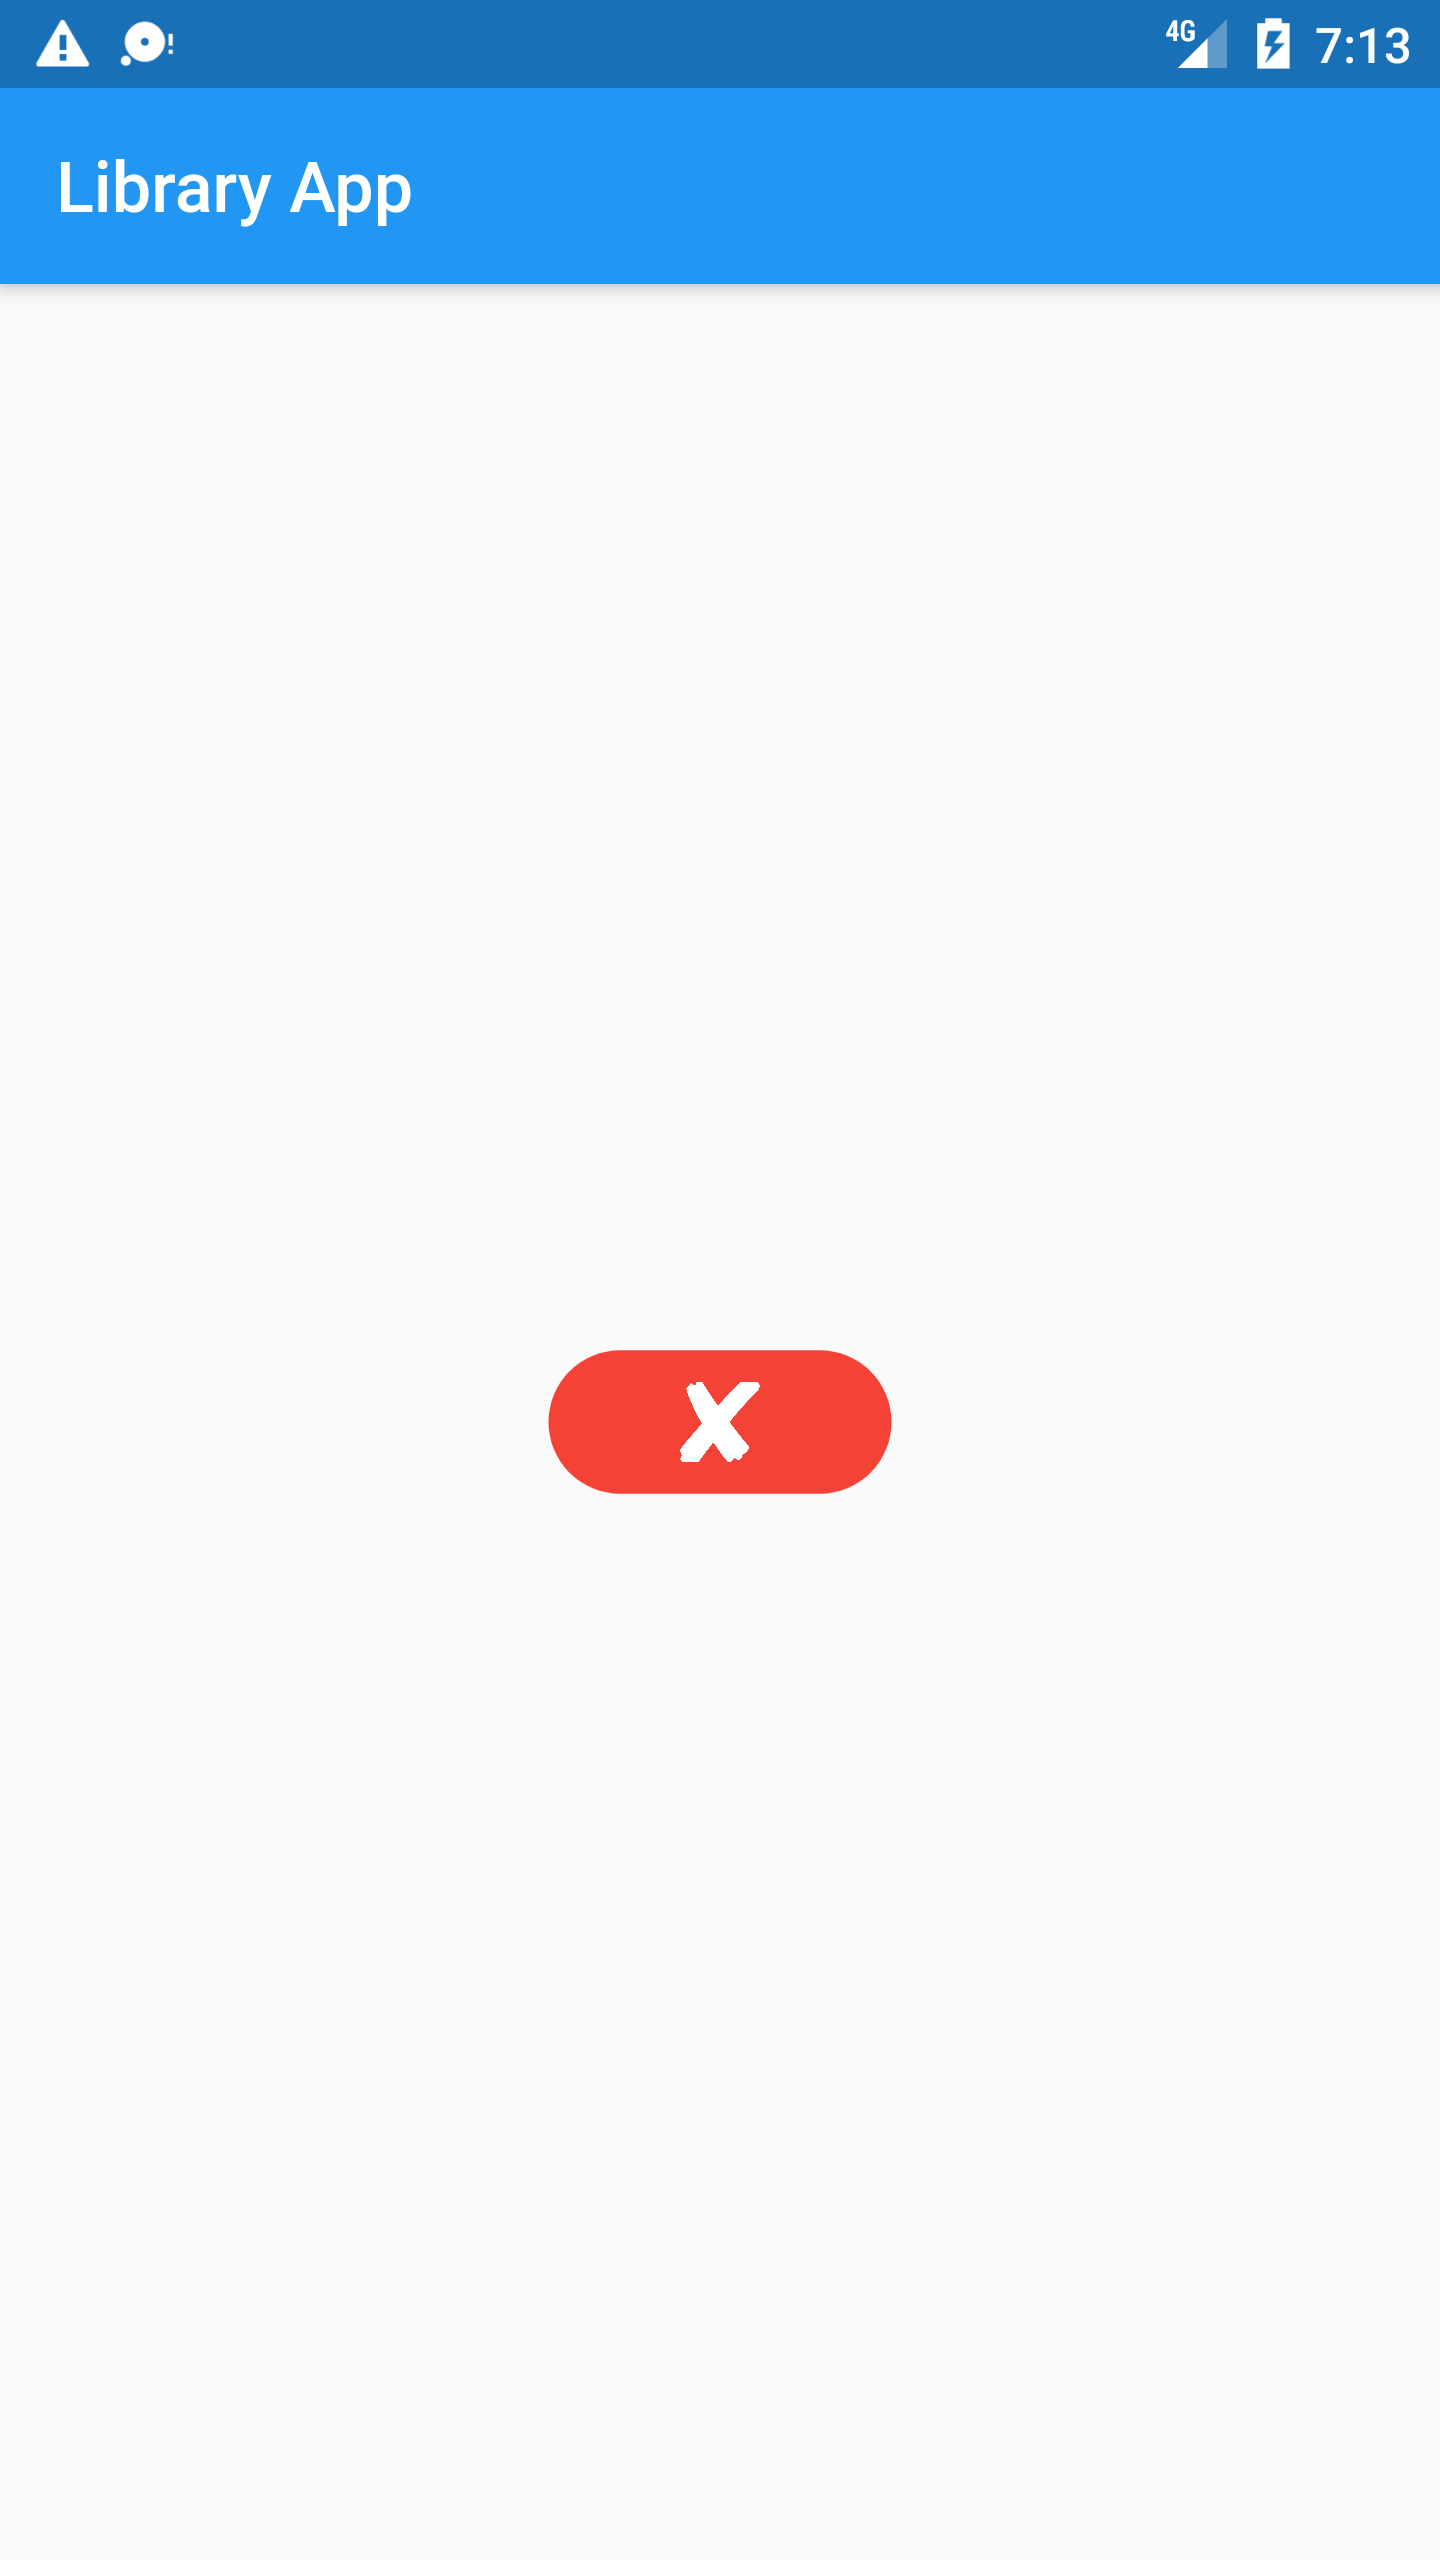
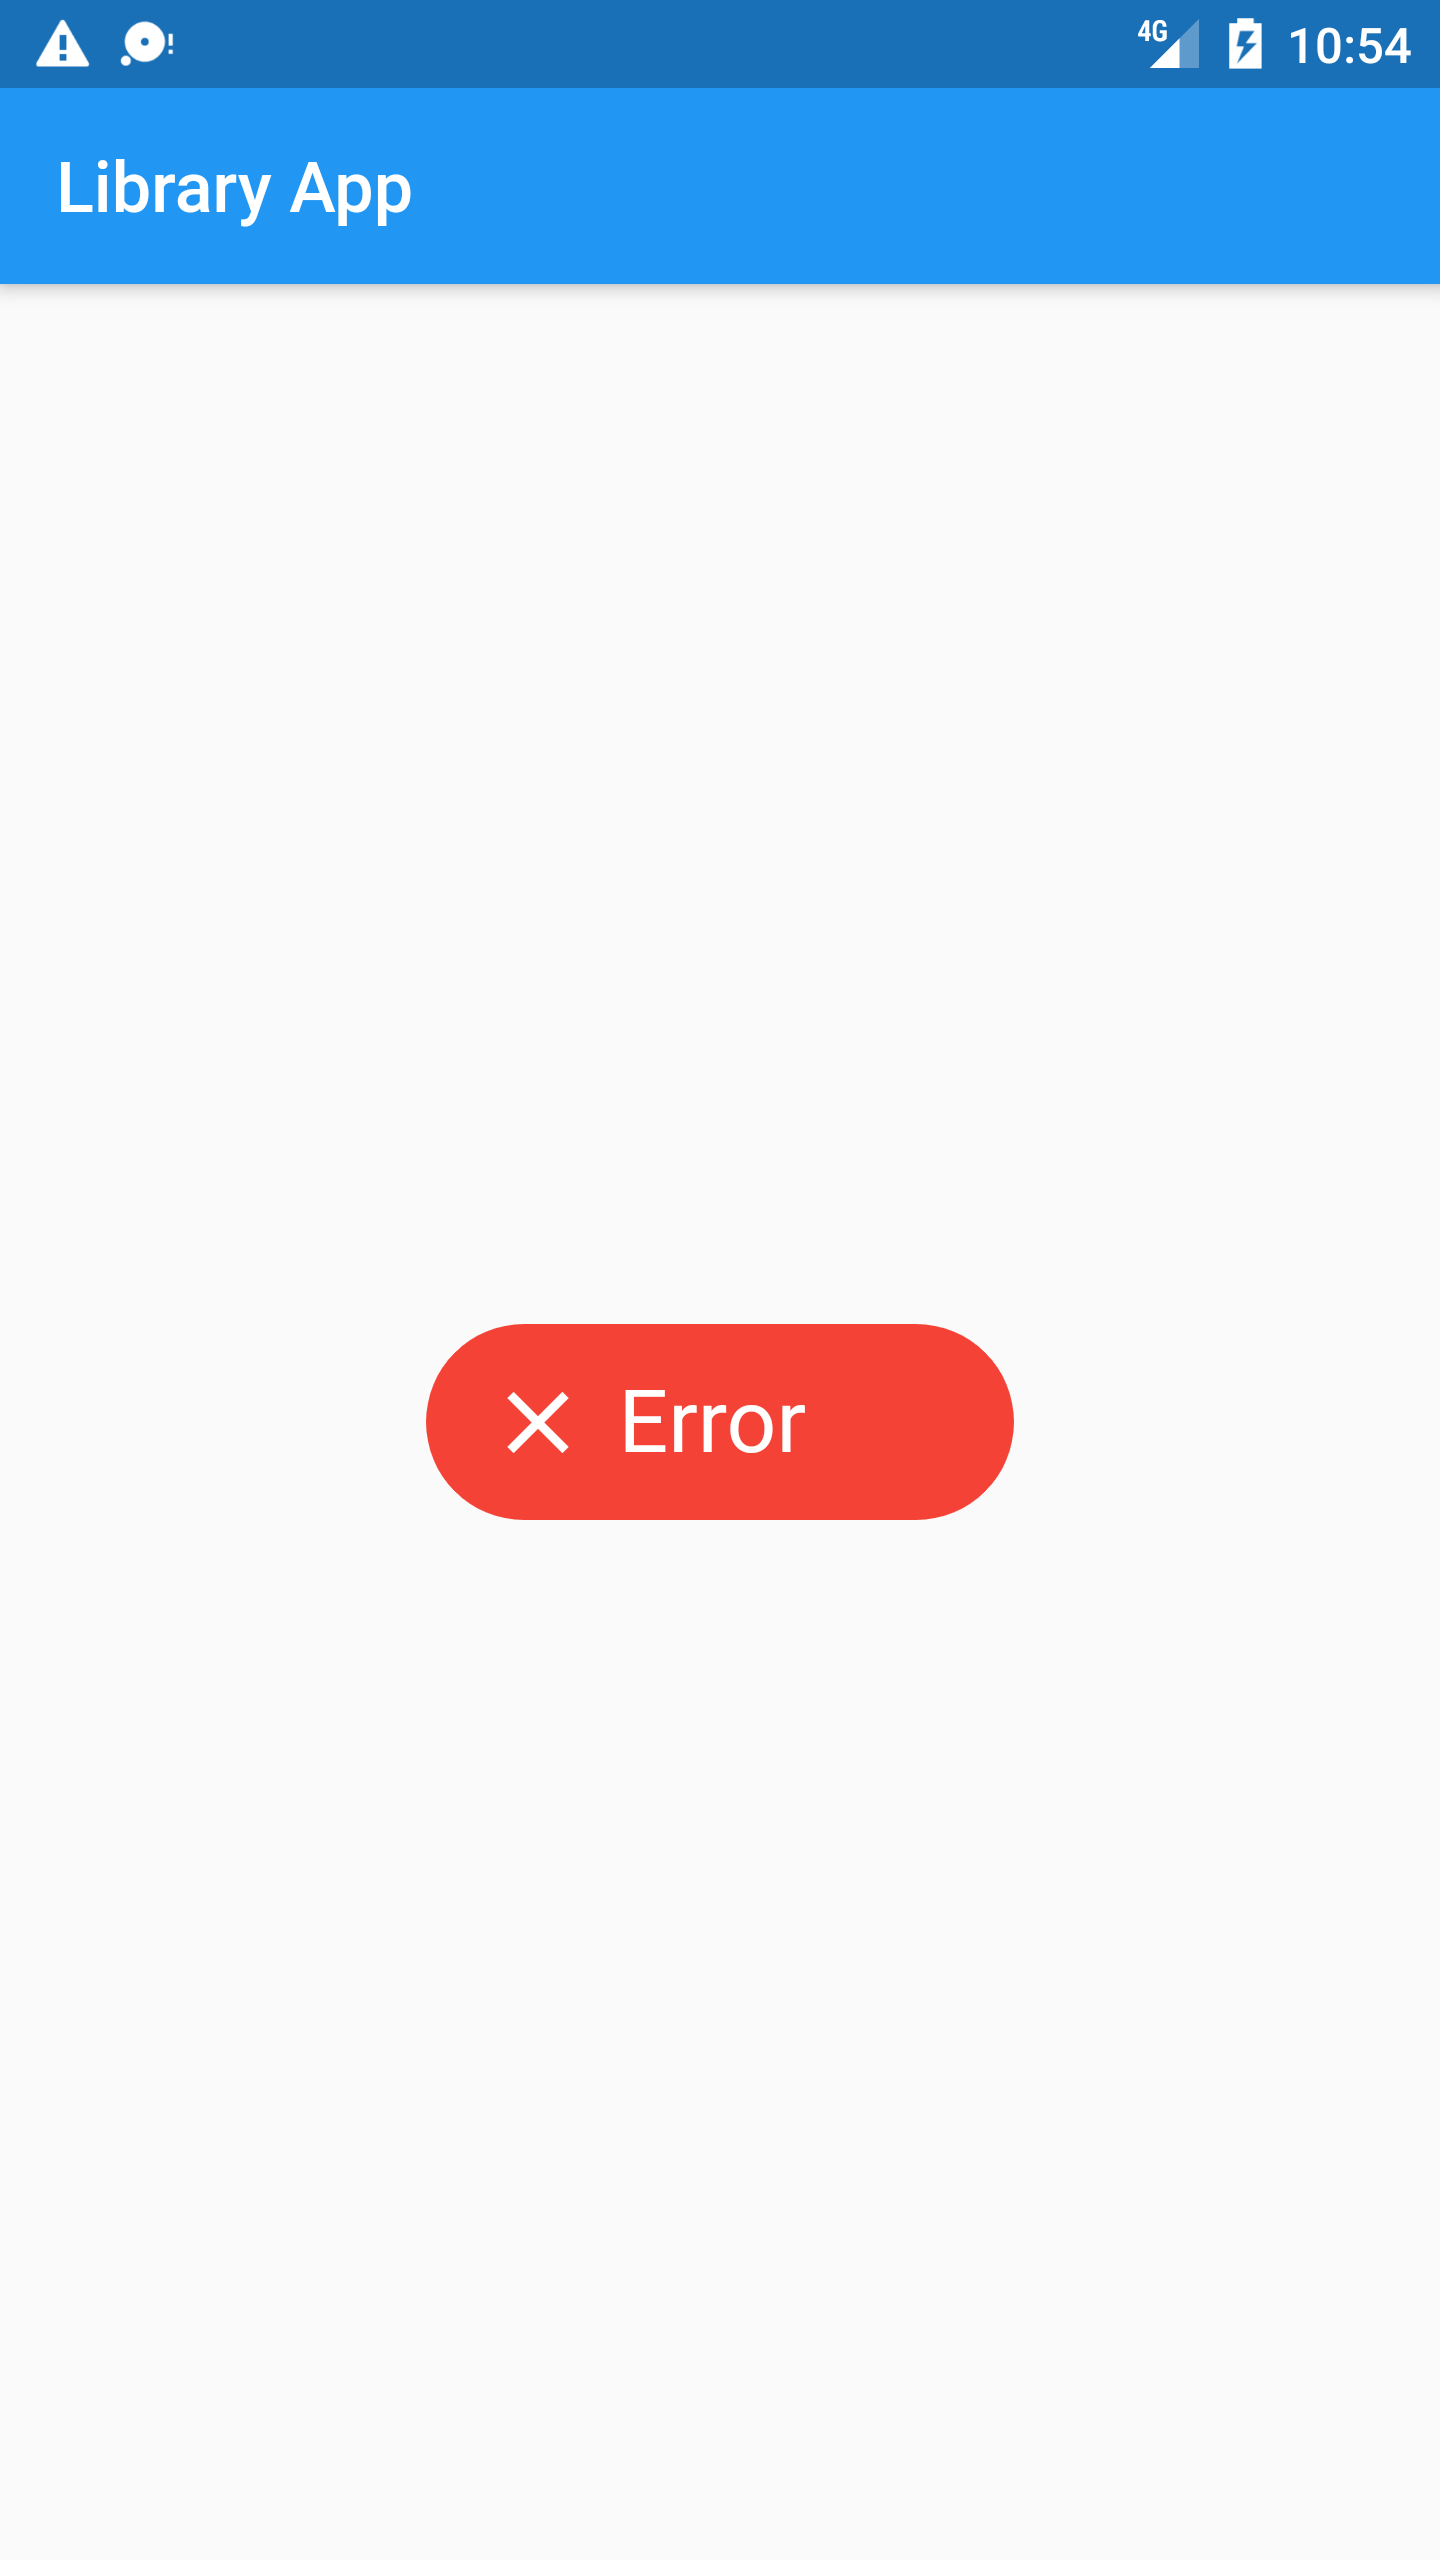
Add files via upload

Changed region(s): [[0.2812, 0.5, 0.7188, 0.5938], [0.7812, 0.0, 0.9688, 0.0312]]

diff --git a/lib/progress_button/progress_button.dart b/lib/progress_button/progress_button.dart
@@ -19,6 +19,8 @@ class ProgressButton extends StatefulWidget {
   final double height;
   final double width;
   final Widget child;
+  final Widget successWidget;
+  final Widget errorWidget;
   final onButtonPressed<Future<ButtonState>> onPressed;
   final Function onSuccessFinished;
 
@@ -32,6 +34,8 @@ class ProgressButton extends StatefulWidget {
     this.height,
     this.width,
     @required this.child,
+    this.successWidget,
+    this.errorWidget,
     @required this.onPressed,
     this.onSuccessFinished,
 
@@ -72,7 +76,6 @@ class _ProgressButtonState extends State<ProgressButton> with SingleTickerProvid
         setState((){});
       }
       else if(status == AnimationStatus.dismissed){
-        //settare le variabii per gli onpressed dei due casi
         if(_state == ButtonState.success) {
           _animateSwitch = false;
           _onPressed = () {
@@ -116,47 +119,32 @@ class _ProgressButtonState extends State<ProgressButton> with SingleTickerProvid
     super.initState();
   }
 
+  Widget _defaultResultWidget(IconData _iconData){
+    return Padding(
+      padding: EdgeInsets.symmetric(vertical: 8.0),
+      child: Center(
+        child: FittedBox(
+          fit: BoxFit.cover,
+          child: Icon(
+            _iconData,
+            color: Colors.white,
+            size: math.min(_buttonSize.width, _buttonSize.height),
+          ),
+        ),
+      ),
+    );
+  }
+
   @override
   Widget build(BuildContext context) {
 
     _width = _buttonSize == null ? null : _buttonSize.width;
     _height = _buttonSize == null ? null : _buttonSize.height;
     _child = _animateSwitch ? Container()
-        : _state == ButtonState.idle ? Row(
-      mainAxisAlignment: MainAxisAlignment.center,
-      mainAxisSize: MainAxisSize.min,
-      crossAxisAlignment: CrossAxisAlignment.center,
-      children: <Widget>[
-        widget.child,
-      ],
-    )
+        : _state == ButtonState.idle ? widget.child
           : _state == ButtonState.success
-            ?  Padding(
-      padding: const EdgeInsets.symmetric(
-          vertical: 8.0, horizontal: 0.0),
-      child: Center(
-        child: AspectRatio(
-          aspectRatio: 1,
-          child: Image.asset(
-            'assets/white_check.png',
-            fit: BoxFit.cover,
-          ),
-        ),
-      ),
-    )
-            : Padding(
-      padding: const EdgeInsets.symmetric(
-          vertical: 8.0, horizontal: 0.0),
-      child: Center(
-        child: AspectRatio(
-          aspectRatio: 1,
-          child: Image.asset(
-            'assets/white_x.png',
-            fit: BoxFit.cover,
-          ),
-        ),
-      ),
-    );
+            ?  widget.successWidget ?? _defaultResultWidget(Icons.check)
+            : widget.errorWidget ??  _defaultResultWidget(Icons.close);
 
     _color = _state == ButtonState.idle
         ? widget.idleColor
@@ -191,6 +179,7 @@ class _ProgressButtonState extends State<ProgressButton> with SingleTickerProvid
       return _ProgressButton(
         width: widget.width ?? _width,
         height: widget.height ?? _height,
+        color: _color,
         child: _child,
         onPressed: (){
           if(_firstTap){
@@ -200,9 +189,7 @@ class _ProgressButtonState extends State<ProgressButton> with SingleTickerProvid
           }
           _onPressed();
         },
-        color: _color,
       );
-
     }
 
   }

diff --git a/lib/main.dart b/lib/main.dart
@@ -37,9 +37,75 @@ class _MainPageState extends State<MainPage> {
       ),
       body: Center(
         child: ProgressButton(
+          height: 56.0,
+          width: 168.0,
           child: Padding(
-            padding: const EdgeInsets.symmetric(horizontal: 16.0,vertical: 8.0),
-            child: Text('Submit',style: Theme.of(context).textTheme.title.copyWith(color: Colors.white,fontSize: 20.0),),
+            padding: EdgeInsets.symmetric(horizontal: 16.0, vertical: 8.0),
+            child: Stack(
+              children: <Widget>[
+                Align(
+                  alignment: Alignment.centerLeft,
+                  child: Text(
+                    'Submit',
+                    style: Theme.of(context).textTheme.subhead.copyWith(color: Colors.white, fontSize: 25.0,fontWeight: FontWeight.bold),
+                  ),
+                ),
+                Align(
+                  alignment: Alignment.centerRight,
+                  child: Icon(
+                    Icons.arrow_forward,
+                    color: Colors.white,
+                    size: 30.0,
+                  ),
+                ),
+              ],
+            ),
+          ),
+          errorWidget: Padding(
+            padding: EdgeInsets.symmetric(horizontal: 16.0),
+            child: Row(
+              mainAxisSize: MainAxisSize.min,
+              mainAxisAlignment: MainAxisAlignment.start,
+              crossAxisAlignment: CrossAxisAlignment.center,
+              children: <Widget>[
+                Icon(
+                  Icons.close,
+                  color: Colors.white,
+                  size: 30.0,
+                ),
+
+                Padding(
+                  padding: EdgeInsets.only(left: 8.0),
+                  child: Text(
+                    'Error',
+                    style: Theme.of(context).textTheme.subhead.copyWith(color: Colors.white, fontSize: 25.0),
+                  ),
+                ),
+              ],
+            ),
+          ),
+          successWidget: Padding(
+            padding: EdgeInsets.symmetric(horizontal: 16.0),
+            child: Row(
+              mainAxisSize: MainAxisSize.min,
+              mainAxisAlignment: MainAxisAlignment.start,
+              crossAxisAlignment: CrossAxisAlignment.center,
+              children: <Widget>[
+                Icon(
+                  Icons.check,
+                  color: Colors.white,
+                  size: 30.0,
+                ),
+                Padding(
+                  padding: EdgeInsets.only(left: 8.0),
+                  child: Text(
+                    'Success',
+                    style: Theme.of(context).textTheme.subhead.copyWith(color: Colors.white, fontSize: 25.0),
+                  ),
+                )
+
+              ],
+            ),
           ),
           onPressed: () => Future.delayed(Duration(seconds: 5),() => ButtonState.success),
         ),

diff --git a/README.md b/README.md
@@ -1,16 +1,6 @@
-# Progress Button
+# progress_button
 
-A simple animated Progress Button for Flutter
-
-# Screenshots
-<img src="https://raw.githubusercontent.com/gnocchiarsugo/progress_button/master/screenshots/Idle_Screenshot.png" height="50%" width="50%" alt="Idle Screenshot">
-
-<img src="https://raw.githubusercontent.com/gnocchiarsugo/progress_button/master/screenshots/Loading_Screenshot.png" height="50%" width="50%" alt="Loading Screenshot">
-
-<img src="https://raw.githubusercontent.com/gnocchiarsugo/progress_button/master/screenshots/Success_Screenshot.png" height="50%" width="50%" alt="Success Screenshot">
-
-<img src="https://raw.githubusercontent.com/gnocchiarsugo/progress_button/master/screenshots/Error_Screenshot.png" height="50%" width="50%" alt="Error Screenshot">
-
+A new Flutter project.
 
 ## Getting Started
 
